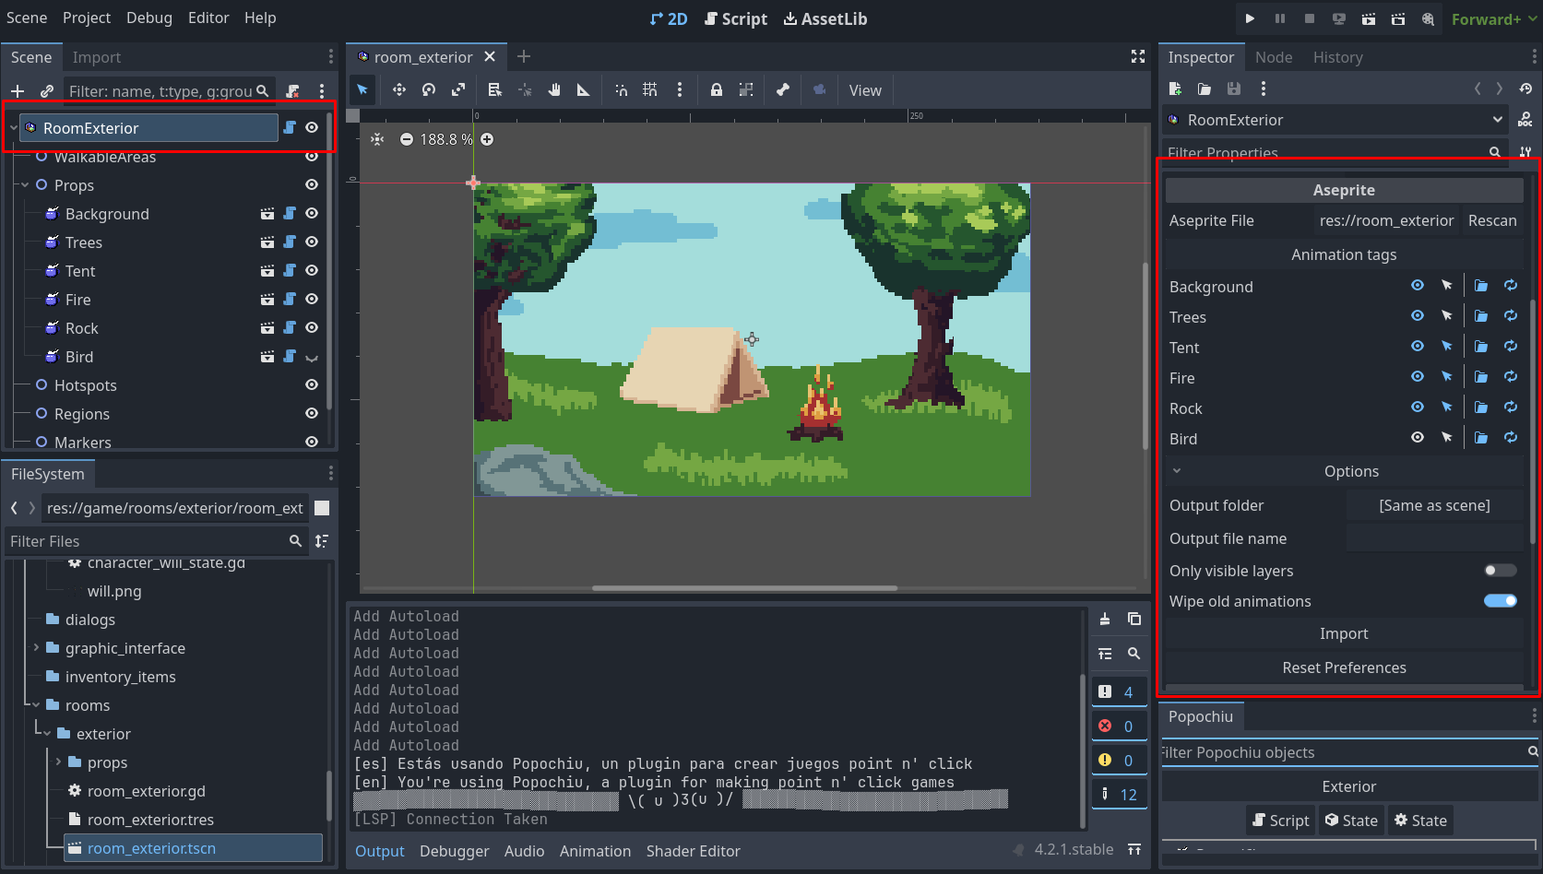
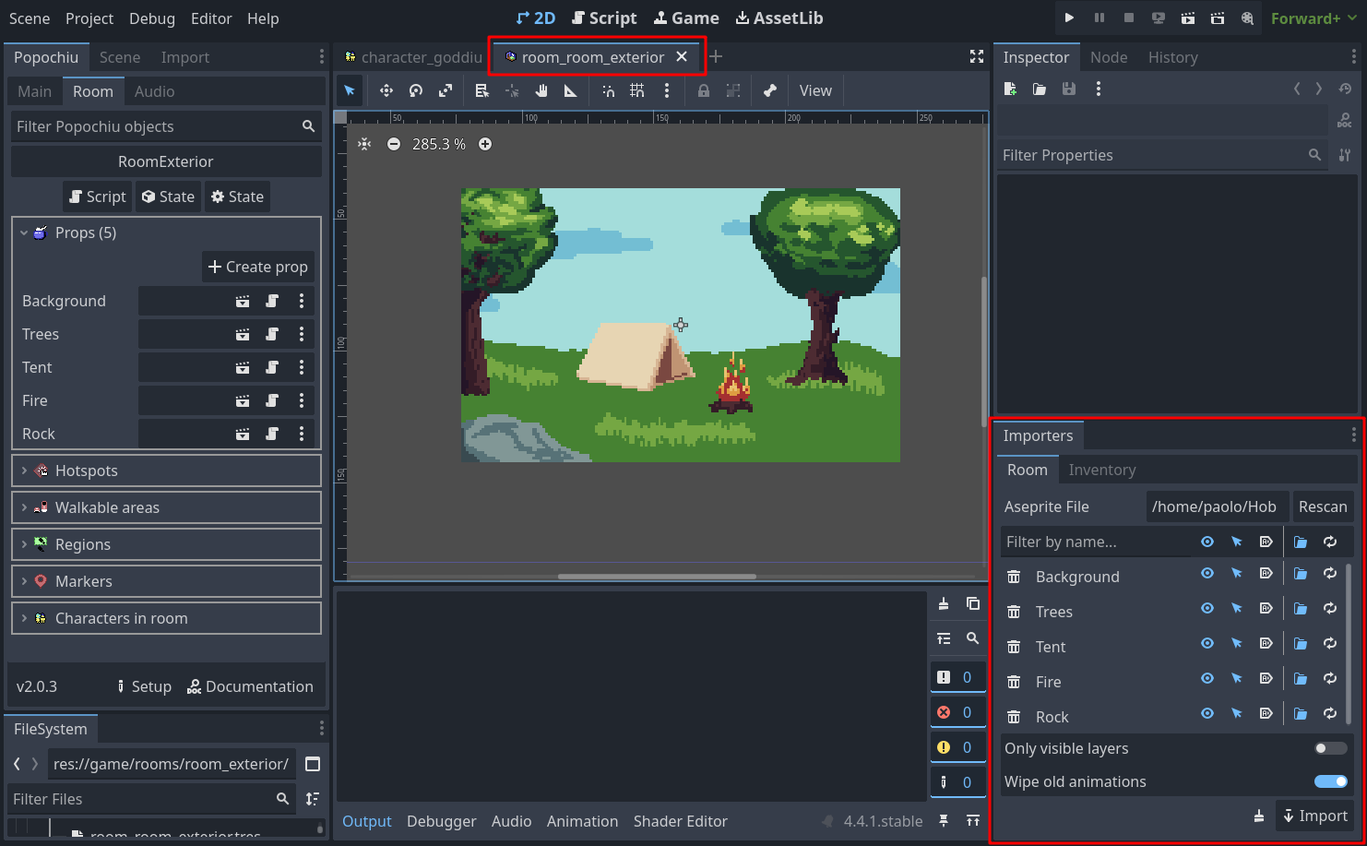
refs #403: Added a default for visible layers option, plus updated documentation.

diff --git a/docs/src/the-editor-handbook/importers.md b/docs/src/the-editor-handbook/importers.md
@@ -7,9 +7,7 @@ weight: 5050
 These tools enable a smooth workflow for the creation of graphical elements in the game.  
 The main goal is to integrate with Aseprite in a way that promotes quick iterations, starting from a visual draft and evolving game scripting and graphics together as things take shape.
 
-Importers are available for [Characters](./PopochiuCharacter.md) and [Rooms](./PopochiuRoom.md), allowing an almost one-click creation of the complete room structure.
-
-Next releases will introduce an Importer for [Inventory items](./PopochiuInventoryItem.md) too.
+Importers are available for [Characters](./PopochiuCharacter.md), [Rooms](./PopochiuRoom.md), and [Inventory items](./PopochiuInventoryItem.md), allowing an almost one-click creation of the complete set of graphical assets representing the game world.
 
 ## Basics
 
@@ -18,9 +16,10 @@ The plugin works by reading [tags](https://www.aseprite.org/docs/tags/) from a p
 The result of the process differs depending on the target object type:
 
 * For **Characters**, every tag represents a specific animation (ex. the talk animation), and when applicable, the animation direction (ex. up, down, left or right). So in a typical project of medium size, there will be specific tags for _talk up_, _talk down_, _walk left_, _walk right_, and so on, plus very specific tags for special cutscene animations (_eat multifolded pizza_, _brush alien dog hair_, _jump across cakes chasm_, etc).
-* For **Rooms**, every tag represents a [Prop](./PopochiuProp.md) and for each tag, a new prop with its own animation is created and populated by the appropriate animation (or sprite). Background and foreground elements are props, of course, and it will be possible to configure each prop visibility and clickability at import.
+* For **Rooms**, every tag represents a [Prop](./PopochiuProp.md) and for each tag, a new prop with its own animation is created and populated by the appropriate animation (or sprite). Background and foreground elements are props, of course, and it will be possible to configure each prop visibility and clickability before importing starts.
+* For **Inventory Items**, every tag in a single source file represents an [Inventory items](./PopochiuInventoryItem.md) that - despite they are usually represented by a still image - can also be animated. Having the whole inventory in a single file is very convenient for consistency and easier file management.
 
-Despite having slightly different outputs, the structure of a Character's or Room's Aseprite source file is basically the same.  
+Despite having slightly different outputs, the structure of these Aseprite source files is basically the same.  
 Let's see examples for both.
 
 ## Aseprite file organization
@@ -29,12 +28,12 @@ Please take a look at the following image:
 
 ![Character Aseprite source file example](../assets/images/editor-handbook/aseprite_importer-source_file_example-character.png "Aseprite source file example - Character")
 
-First notable thing is, a single file contains all animations for the character, identified by tags (_marker 1_). Each tag will be used to create a single animation, named after the tag, for the Character.
+First notable thing is, a single file contains all animations for the character, identified by tags (_1_). Each tag will be used to create a single animation, named after the tag, for the Character.
 
 !!! info "Under the hood"
     Popochiu Characters already embed a Sprite2D and an AnimationPlayer. The whole spritesheet is assigned as texture to the Sprite2D and every tag becomes a configured animation in the AnimationPlayer - even the single-sprite ones. They are then accessible by specific methods on the Character, as explained below.
 
-Your file can also be organized in layers (_marker 2_). Layer names are completely up to you and you may create as many as you like. The importer has an option to import only visible layers, that's useful if you have reference or background layers that you don't want to be part of your sprite.
+Your file can also be organized in layers (_2_). Layer names are completely up to you and you may create as many as you like. The importer has an option to import only visible layers, that's useful if you have reference or background layers that you don't want to be part of your sprite: just hide them before importing and make sure the **Only visible layers** importer option is on.
 
 Layers are particularly useful in Rooms source files, because without them, isolating props tend to become pretty messy. Take a look at the following example.
 
@@ -63,7 +62,13 @@ Basically all combinations of layers and frames are allowed: what you see in a s
 !!! note
     Even more observant readers will also have realized at this point, that by how things work, each prop sprite will be the size of the whole scene. That's right, but don't be horrified. This approach has a lot of advantages at the sole cost of asking a swift third-millenium game engine to render some more transparent pixels. What we gain is automatic placing of the visual in the scene at import time, and a common rect origin for each prop that will keep baselines and other coordinates consistent among them in the same scene.
 
-Back to the tags: you can name them whatever you want, but to get the most out of this functionality, stick to the following conventions:
+The very same concept apply to Inventory Items too. Here is an example source file:
+
+![Inventory Aseprite source file example - Multi frame animation](../assets/images/editor-handbook/aseprite_importer-source_file_example-inventory.png "Aseprite source file example - Inventory Items with animation")
+
+As you can see, to animate an item in the inventory grid, you just have to create a multi-frame tag, as for the characters. Each tag will be imported as a new item, or - if the item already exists - its animation will be updated.
+
+Back to the tags! You can name them whatever you want, but to get the most out of this functionality, stick to the following conventions:
 
 ### Case style
 
@@ -72,7 +77,7 @@ Be explicit.
 
 ### Reserved animation names
 
-The engine will automatically recognize the following reserved names and use them properly: `idle`, `walk`, `talk`, `grab`. All of them take for granted the character is facing right and it will be flipped to the left and used for up and down directions too, unless you don't provide...
+For characters, the engine will automatically recognize the following reserved names and use them properly: `idle`, `walk`, `talk`, `grab`. Naming animations like this, the engine will for granted that the character is facing right and it will be flipped to the left and used for up and down directions too, unless you don't provide...
 
 ### Directional suffixes
 
@@ -104,11 +109,13 @@ Editor Settings contain those configurations that may change between team member
 ![Editor Settings](../assets/images/editor-handbook/aseprite_importer-settings-es.png "Editor Settings")
 
 * **Enable Aseprite Importer**: Allows the user to enable or disable the importer in their editor. Useful to avoid cluttering the inspector or getting errors for those who don't use Aseprite or don't have it available in a specific environment.
-> !!! note
-    This option is only available starting from Popochiu 2.0. In Popochiu 1.0 the importer can't be disabled.
+
+    !!! note
+        This option is only available starting from Popochiu 2.0. In Popochiu 1.0 the importer can't be disabled.
+
 * **Command Path**: This is the single most important setting to make the plugin work. On Windows, this field **must** contain the full path to Aseprite executable (having the command in `PATH` won't work due to some Godot limitations on command execution under Windows). In *nix systems (Linux and MacOS), you can choose to provide the Aseprite command (if in `PATH`) or the full path, as you prefer.  
 Anyway, the plugin will check for the correct execution of the command before initializing itself. If something goes wrong, the output panel will give useful information to fix the problem.
-* **Remove JSON file** When Aseprite is invoked by the importing procedure, it generates a JSON file with metadata that is necessary to complete the job, alongside the spritesheet PNG file. This file is then useless and can be safely erased, most of all if you are versioning your code (you are, aren't you?!). If for some reason you want to keep the output file, just unflag this setting.
+* **Remove JSON file** When Aseprite is invoked by the importing procedure, it generates a JSON file with metadata that is necessary to complete the job, alongside the spritesheet PNG file. This file is then useless and can be safely erased, especially if you are versioning your code (you are, aren't you?!). If for some reason you want to keep the output file, just unflag this setting.
 
 !!! note
     In Popochiu 1.x for Godot 3, all these settings are found under "Project Settings" (see below).
@@ -119,50 +126,66 @@ Among the Project Settings you'll find those you may want to share with your tea
 
 ![Project Settings](../assets/images/editor-handbook/aseprite_importer-settings-ps.png "Project Settings")
 
-!!! note
-    Since Godot 4, Project Settings have an "Advanced Settings" filter. Plugins can't declare their settings as _basic_, so please make sure you have the upper left toggle _activated_ or you won't see Popochiu's settings section.
-
 * **Import Animation by Default**: When a source file is scanned, a list of the contained tags is populated. For each element in the list, you can choose if you want it imported or not. This is useful if you have half-baked animations or reference tags of some sort. When this setting is flagged, all new animations in the list will be automatically flagged as "to be imported". When this setting is off, they will be flagged as "not to be imported".
-* **Loop Animation by Default**: When a source file is scanned, a list of the contained tags is populated. For each element in the list, you can choose if you want that animation to loop or if it has to be run a single time. Animations like talk or walk are usually looping, but animations specific for cutscenes or special cases may be single runs. When this setting is flagged, all new animations in the list will be automatically flagged as "looping". When this setting is off, they will be flagged as "non-looping".
 * **New Props Visible by Default**: When a _Room_ source file is scanned, a list of the contained tags is populated. For each element in the list, which will be imported as a Prop, you can choose if you want the new prop to be created visible, or invisible (useful for props that have to be shown only at certain conditions). When this setting is flagged, all elements in the list will be automatically flagged as "visible". When this setting is off, they will be flagged as "hidden".
 * **New Props Clickable by Default**: When a _Room_ source file is scanned, a list of the contained tags is populated. For each element in the list, which will be imported as a Prop, you can choose if you want the new prop to be interactive, or non-interactive. When this setting is flagged, all elements in the list will be automatically flagged as "interactive". When this setting is off, they will be flagged as "non-interactive".
-* **Wipe old Animations**: This is the default value for the option with the same name that appears in the importer interface (see below for more information). Set this as you prefer so you don't have to do it all the times, depending on your workflow.
+* **Only Visible Layers**, **Wipe Old Animations**: These are the default values for the equally named options that appears at the bottom of the importer interface (see below for more information). Set the defaults as you prefer so you don't have to do it all the times, depending on your workflow.
 
 ## Importer interface
 
 The importer will show a slighlty different interface depending on the target Popochiu Object.
 
-The following sections show examples for both Characters and Rooms, highlighting the small differences.
+The following sections show what the Inventory Items, Rooms and Characters importers have in common, and highlight the small differences.
 
 ### Opening the Importer
 
-The Character importer tool is visible in the inspector, when you select a [PopochiuCharacter](./PopochiuCharacter.md) object, opening the related scene.
+Popochiu automatically initializes the Aseprite Importers in a dedicated dock, in the lower-right corner of the screen, right under the inspector. The dock shows three tabs, dedicated to the different objects.
+
+While the **Inventory** tab is always visible, the **Room** and **Character** ones are hidden, unless you are editing a scene of the right type. In fact only two tabs will be visible at the same time: either _Inventory and Character_, or _Inventory and Room_.
+
+![Aseprite importers dock](../assets/images/editor-handbook/aseprite_importer-importer_interface-general.png "The Aseprite Importers dock")
+
+When the editor is focused on an open Character scene, the **Character** tab is shown:
 
 ![Character Aseprite importer](../assets/images/editor-handbook/aseprite_importer-activate_importer-character.png "Character Aseprite importer")
 
 You will not see the importer when you select a character instance in a specific room. To see the importer, you must open the character scene and select its root node.
 
-Likewise, a Room importer is shown in the Room inspector, when you select the root node of an open Room scene.
+Likewise, a Room importer is shown when you open a Room scene.
 
 ![Room Aseprite importer](../assets/images/editor-handbook/aseprite_importer-activate_importer-room.png "Room Aseprite importer")
 
 !!! note
     If any error occurs when the plugin starts (for example if there are problems with the Aseprite command or missing dependencies in the scene tree), a warning will be visualized in place of the plugin. Head to the Output Panel to learn how to fix the error.
 
-!!! note
-    If you select a proper target node and no "Aseprite" section is shown in the inspector, maybe the functionality is disabled. Chech that `Popochiu -> Importer -> Enable Aseprite Importer` option is flagged in the **Editor Settings**.
+    If you open a proper target scene and the dock is not shown, maybe the functionality is disabled. Chech that `Popochiu -> Importer -> Enable Aseprite Importer` option is flagged in the **Editor Settings**.
 
-### Using the Importer
+### Setting the Importer up
 
-When you select a [PopochiuCharacter](./PopochiuCharacter.md) node, you should see this interface in the node inspector, right after the script variables section:
+Let's start from the [Inventory Items](./PopochiuInventoryItem.md) importer, since the other ones will only have small differences.
 
-![Character Aseprite Importer interface](../assets/images/editor-handbook/aseprite_importer-importer_interface-character.png "Character Aseprite importer interface")
+![Inventory Aseprite Importer interface](../assets/images/editor-handbook/aseprite_importer-importer_interface-inventory.png "Inventory Aseprite importer interface")
 
-Use **Aseprite file** field (_1_) to select the source file. When you do this, the plugin automatically scans the file and lists every tag found (_2_) (or none if the file is a single animation with no tags).
+Use **Aseprite file** field (_1_) to select the source file. When you do this, the plugin automatically scans the file and lists every tag found (_3_) (or none if the file is a single animation with no tags - in this case, you're out of luck trying to import it).
 
-For each tag that is found and listed, two flags are available (_3_): **Import this animation** and **Set the animation as looping**. Deactivating them can prevent a specific animation to be imported or set the animation as a single-run.
+For each tag found, three flags are available. Two are commons to all the importers (from right to left):
 
-For [PopochiuRoom](./PopochiuRoom.md) node, the interface is only slightly different, showing two more flags for each tag (_1_ below):
+* **Set the animation as looping**: pretty straightforward, you want it to be turned on (highlighted) if you want the animation to loop. The value defaults to _off_ for inventory items and rooms elements, and to _on_ for characters animations.
+* **Import this animation**: you can select if the specific animation has to be imported. The default is set in the Project Settings (see above).
+
+This one is available only for Inventory and Rooms:
+
+* **Set animation as Autoplaying**: each tag will be imported as a separate Inventory Item or Room Prop. For each one, you can select if its animation plays automatically, or if the sprite stands still on the first frame, until you activate the animation via your script.
+
+Since the list can get pretty long (in this case, a scrollbar is shown, as in the example image), a header is available (_2_) with some specific function:
+
+* **A fulltext filter** that highlights only the tags containing the string in any position (case-insensitive, no minimum lenght).
+* **Bulk buttons** to toggle the state of every tag in the list. This button has three states:
+  * It's on when everything is on. Clicking it, switch everything to off.
+  * It's off when everything is off. Clicking it, switch everything to on.
+  * It's in a "dirty" state when you have a mixed situation. In that case, clicking it will set evething back to the default state (depending on the column). Don't worry, a confirmation dialog is displayed, before you wipe all your precious settings!
+
+The **Room** importer shows two more flags for each tag (_1_ below):
 
 ![Room Aseprite Importer interface](../assets/images/editor-handbook/aseprite_importer-importer_interface-room-diff.png "Room Aseprite importer interface differences")
 
@@ -171,37 +194,44 @@ For [PopochiuRoom](./PopochiuRoom.md) node, the interface is only slightly diffe
 !!! note
     Visibility and clickability can both be set at a later stage via script or interface, but these settings allow a one-time setting for frequent, iterative reimporting.
 
-!!! note
     Visibility and Import flags are not to be confused. You may want to import an invisible prop that will be made visible during the course of the game (think two props for an open and a closed door, that you want to switch based on player's actions).
 
-The **Rescan** button at the top allows you to refresh the tags list if you make any changes. It will be your quick-iteration best friend. Rescanning the tags will **not** overwrite the preferences you already selected for each tag. It will anyway update the frame count references for each animation, get rid of tags that are no more available, and add new ones.
+The **Character** importer finally, only have the basic flags (_1_), because the animation to play is selected and started by the engine:
 
-!!! note
-    You **must** rescan your source file before reimporting it, if you change the frame count for already available animations, or your imported animations will miss some frames or be all messed-up.
+![Character Aseprite Importer interface](../assets/images/editor-handbook/aseprite_importer-importer_interface-character.png "Character Aseprite importer interface")
 
-In the **Options** dropdown (_4_), you can set some parameters for the importer:
+The **Rescan** button at the top allows you to refresh the tags list if you make any changes to the source file. It will be your quick-iteration best friend. Rescanning the tags will **not** overwrite the preferences you already selected for each tag. It will anyway update the frame count references for each animation, get rid of tags that are no more available, and add new ones.
 
-* **Output Folder**: This refers to the folder in which the _TextureAtlas_ PNG file will be created. If unset, it defaults to the same folder as the scene (in case of a Room Prop, each atlas will be put into the related prop's folder). This helps in case you want to enforce a specific file structure.
-* **Output File Name**: If empty, this will default to the Aseprite original source file name. Should you want to select a different file name for your atlas, specify it here.
+!!! warning
+    You **must** rescan your source file before reimporting it, if you change the frame count for already available animations, or your imported animations will miss some frames or be all messed-up!
+
+Under the list you can set two parameters (_4_) for the importer:
+
 * **Only visible layers**: This flag allows you to ignore hidden layers. Useful if you have reference layers or backgrounds that you don't want to appear in your sprite.
-> !!! tip
-      Remember to hide reference layers before saving the source file!
-* **Wipe old animations**: When flagged, all the animations already imported for a Character will be wiped before re-importing them.  
-  You typically want to keep this setting flagged when you are iterating over a character's graphics and you want to make sure that if you move or rename animations, every possible leftover is removed and the final result is always coherent with the source file, 1-on-1.  
-  You typically want to unflag this when you are working with multiple source files for a single character, and you want to import animation from a file without getting rid of the animations you have already imported before.
-  Beware that animations with the same name will **always** be overwritten. If you keep this setting unflagged and you have leftover animations saved for a character you will need to remove them by hand.
 
-All these preferences are automatically saved with the target [PopochiuCharacter](./PopochiuCharacter.md) or [PopochiuRoom](./PopochiuRoom.md) node, so they are persisted between sessions, and different for each single element.  
-If for some reason you want to completely reset an Importer anew, just use the **Reset preferences** button at the very bottom (confirmation required).
+    !!! tip
+        Remember to hide reference layers before saving the source file!
+
+* **Wipe old animations**: When flagged, all the animations already imported will be wiped before re-importing them.  
+
+    !!! tip
+        You typically want to keep this setting flagged when you are iterating over an element graphics and you want to make sure that if you move or rename animations, every possible leftover is removed and the final result is always coherent with the source file, 1-on-1.  
+        You typically want to unflag this when you are working with multiple source files for a single element, and you want to import animation from a file without getting rid of the animations you have already imported before.
+        Beware that animations with the same name will **always** be overwritten. If you keep this setting unflagged and you have leftover animations saved for an element you will need to remove them by hand.
+
+All these preferences are automatically saved separaterly for each scene (globally for the inventory), so they are persisted between sessions, and different for each single room or character.  
+If for some reason you want to completely reset an Importer anew, just clich the **Reset preferences** icon (_5_) at the very bottom (confirmation required).
 
 ### Importing animations
 
-Finally, if everything is set up correctly, you can hit the **Import** button. The importer will do its magic (beware: very large files with hundreds to thousands of frames will take a while to load, manly due to Aseprite exporting them).  
+Finally, if everything is set up correctly, you can hit the **Import** button (_5_). The importer will do its magic (beware: very large files with hundreds to thousands of frames will take a while to load, manly due to Aseprite exporting them).  
 When the procedure is over a popup message will report the status and processed tags count.
 
-* **For Characters**, you will find all your animations in the [AnimationPlayer](https://docs.godotengine.org/en/3.6/classes/class_animationplayer.html) of your character.  
+* **For Inventory**, you will see that all the inventory items marked for import have been created automatically and populated with the correct sprite and animations.
+Note that existing items with the same name will have their animations seamlessly updated by the procedure, preserving any other properties or configuration they may have.  
+* **For Rooms**, the behavior is similar: all the props marked for import will be created automatically and populated with the correct sprites. If you have animated props (like the fire in this page's example) marked as autoplaying, start the scene and you should see their animations running. You can check the animation is correctly looping, if that's the case.  
+As for inventory items, already existing props animations and sprite get updated, but the rest of the element is untouched.
+The Room importer is not yet tracing colliders automatically (soon to come), but each Prop has an embedded polygon. To edit it, open the prop's scene and click the _Interaction Polygon_ button in the toolbar.
+* **For Characters**, you will find all your animations in the [AnimationPlayer](https://docs.godotengine.org/en/4.4/classes/class_animationplayer.html) of your character.  
 All reserved animations (`idle`, `walk`, `talk`, `grab`) will automagically be available in your game and used by the engine.  
 You can use `play_animation()` method to play any other animation by passing its name (without directional suffixes) as a parameter.
-* **For Rooms**, you will see a set of props have been created automatically and populated with the correct sprites. If you have animated props (like the fire in this page's example), starting the scene in the player will show the animation running. You can check the animation is correctly looping, if that's the case.  
-Note that existing props with the same name will have their animations seamlessly updated by the procedure, preserving any other properties or configuration they may have.  
-The Room importer is not yet tracing colliders automatically, but each Prop has an embedded polygon. To edit it, select the Prop in the room tree (or in the Popochiu panel room tab) and click the _Interaction Polygon_ button in the toolbar.
